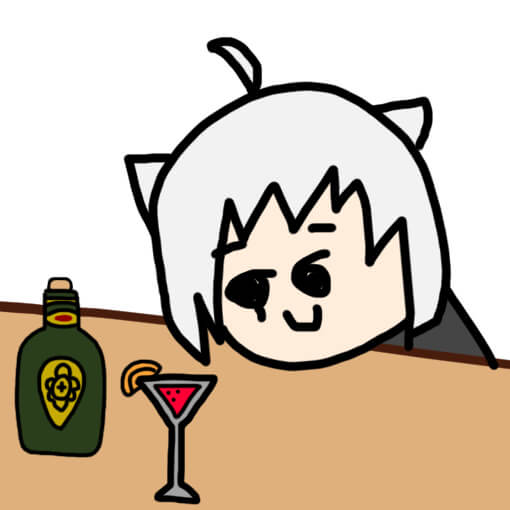
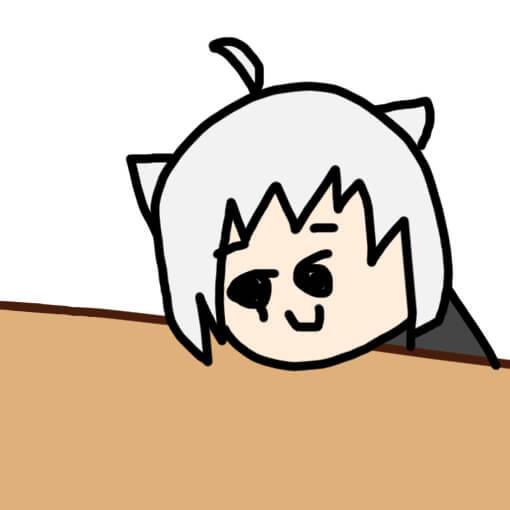
。

Changed region(s): [[0.0, 0.0588, 1.0, 1.0]]

diff --git a/blog/笔记/社会问题/游戏节奏/zk/抽卡记录：原神.html b/blog/笔记/社会问题/游戏节奏/zk/抽卡记录：原神.html
@@ -17,7 +17,7 @@ permalink: i/7677616
 <script>let dy,dy2;
 
 let 抽={ //已抽
-"猫球限定":53, "猫球常驻":52, //
+"猫球限定":56, "猫球常驻":52, //
 "二扯限定":23, "二扯常驻":35, //
 
 "猫球":["迪卢克 限定 79 歪","钟离 限定 79","武器 常驻 71","琴 限定 68 歪","甘雨 限定 19","琴 限定 27 歪","温迪 限定 44","纳西妲 限定 78","迪卢克 限定 38 歪","宵宫 限定 17","琴 常驻 79","雷电将军 限定 77","武器 常驻 8","琴 限定 75 歪","夜兰 限定 59","胡桃 限定 80","申鹤 限定 59","提纳里 常驻 48","刻晴 常驻 3","莫娜 限定 61 歪","枫原万叶 限定 83","迪希雅 限定 78 歪","可莉 限定 74","武器 常驻 79","刻晴 限定 77 歪","那维莱特 限定 38","芙宁娜 限定 12","刻晴 限定 82 歪","娜维娅 限定 77","闲云 限定 39","琴 常驻 75","阿蕾奇诺 限定 80","提纳里 限定 76 歪","克洛琳德 限定 42","迪希雅 限定 77 歪","希诺宁 限定 77","武器 常驻 74","迪希雅 限定 83 歪","希格雯 限定 79","莱欧斯利 限定 29","琴 限定 74 歪","丝柯克 限定 54","玛薇卡 限定 63","恰斯卡 限定 74","菲林斯 限定 28","梦见月瑞希 常驻 82","奈芙尔 限定 77","提纳里 限定 47 歪","哥伦比娅 限定 11",

diff --git a/blog/笔记/酒仙笔记/0.html b/blog/笔记/酒仙笔记/0.html
@@ -17,6 +17,25 @@ permalink: jiuxian
     .cj:has(img):hover{transform:scale(1.6);}
 </style>
 <script>
+let 仓买=[
+    "锈湖鸡尾酒","Beer","安梦蔷薇","开拓者特调",
+    ["BadTouch","width:80px;height:80px;left:-4%;bottom:28%"],
+    ["地狱本质","width:80px;height:80px;left:-4%;bottom:32%"],
+    ["黄金香槟","width:80px;height:80px;left:-4%;bottom:32%"],
+    ["酒神之酒","width:60px;height:60px;left:2%;bottom:36%;transform:rotate(-45deg)"],
+    ["水晶果果酒","width:60px;height:60px;left:2%;bottom:36%;transform:rotate(-45deg)"],
+    ["四德酒","width:60px;height:60px;left:4%;bottom:32%;transform:rotate(15deg)"],
+    ["溺甜","width:60px;height:60px;left:4%;bottom:36%"],
+];
+仓买=仓买[Math.floor(Math.random()*仓买.length)];
+
+
+仓买="溺甜";
+仓买=["溺甜","width:60px;height:60px;left:4%;bottom:36%"];
+
+if(typeof 仓买==='string'){仓买=[仓买,'width:60px;height:60px;left:4%;bottom:32%']}
+仓买="/i/cj/19052867.jpg'><img style='position:absolute;"+仓买[1]+"' src='/i/2264624/"+仓买[0]+".png／猫球仓买／猫球偷偷开的酒吧／／u／/cangmai";
+
 let cj_data={
 "酒仙笔记":[
 
